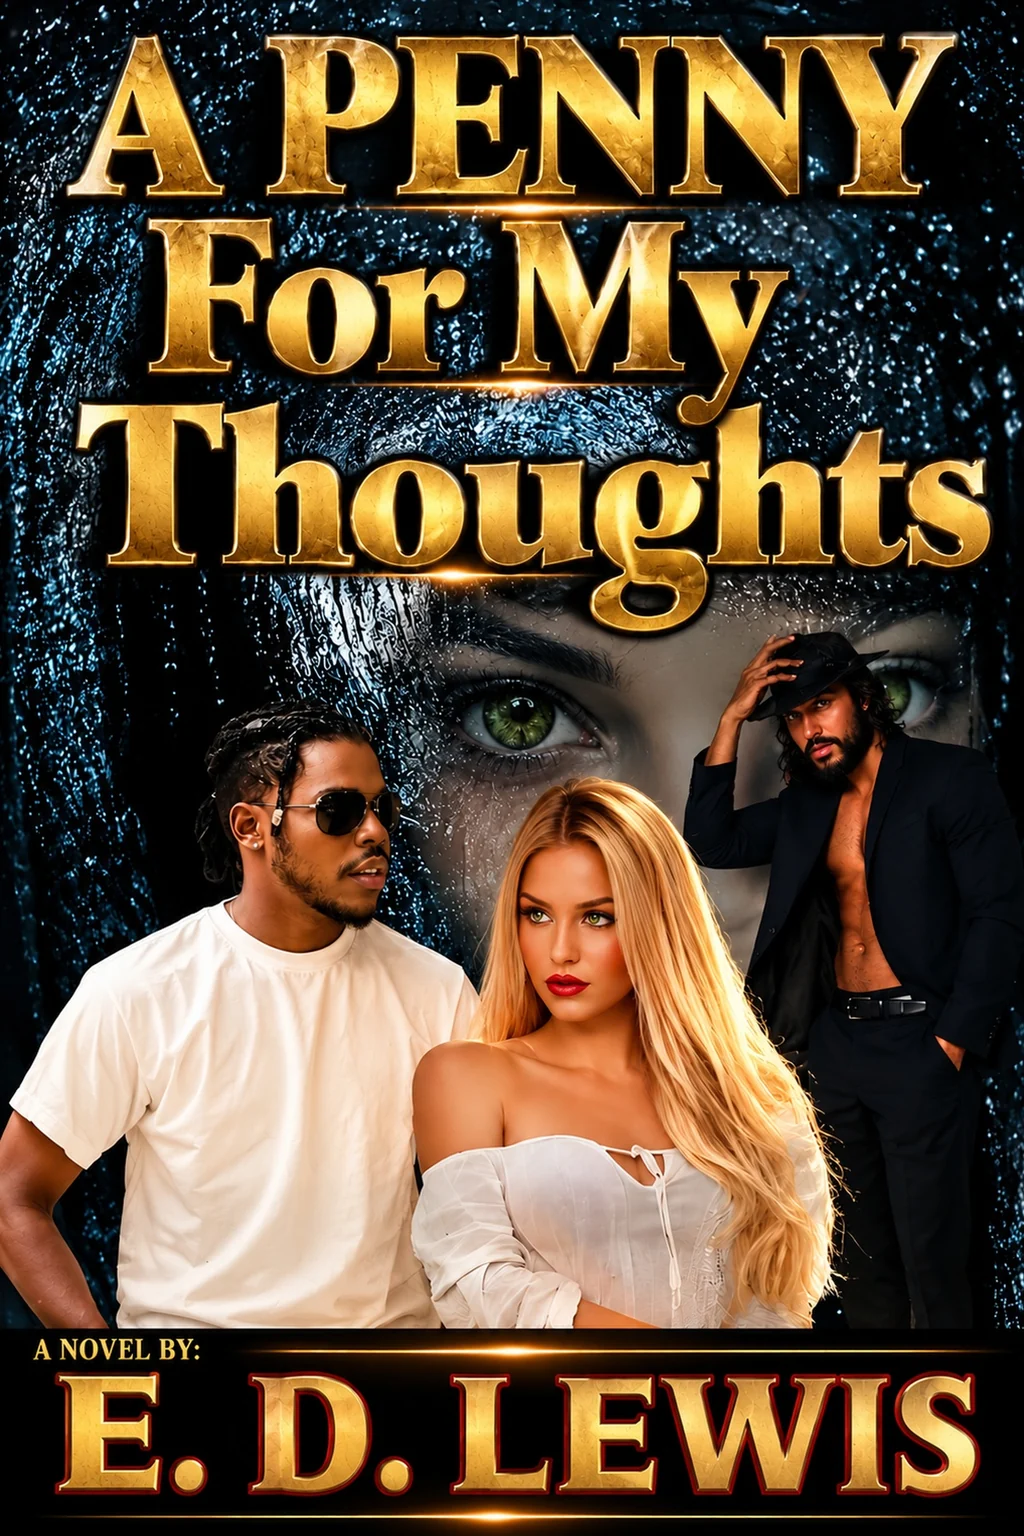
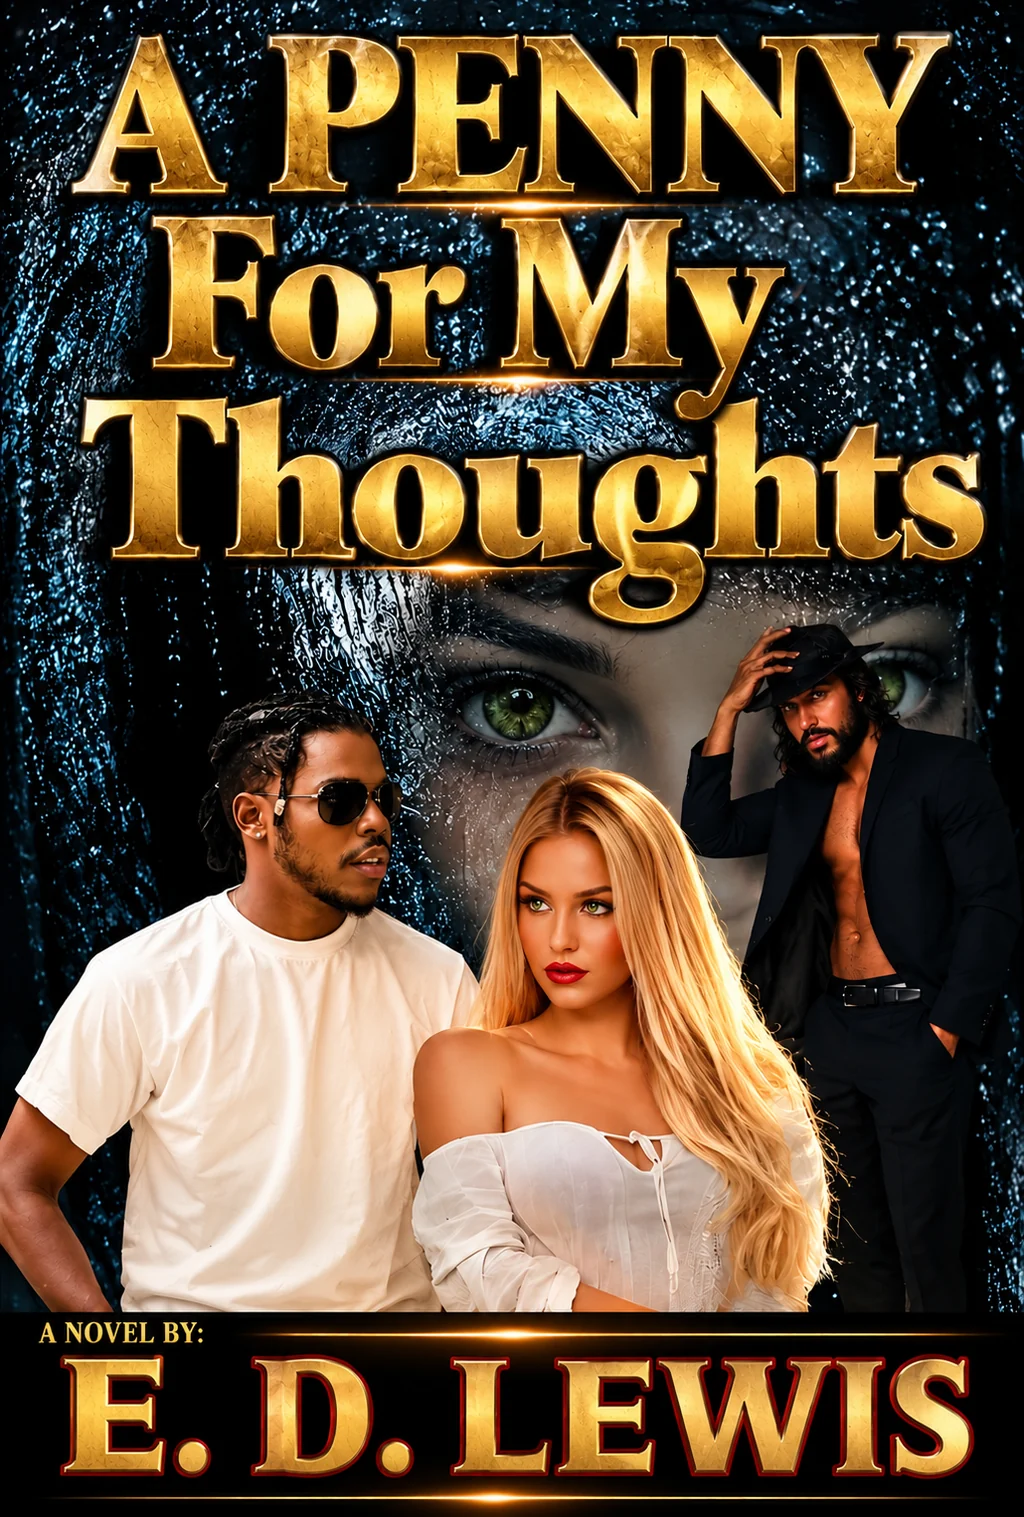
APFMT original: use true 1030x1526 tall_source (preserve aspect)

diff --git a/audiobooks.html b/audiobooks.html
@@ -411,7 +411,7 @@
         </article>
         <article id="ab1" class="card product ab-available">
           <div class="product-cover">
-            <img alt="A PENNY FOR MY THOUGHTS cover" src="images/covers-tall/a-penny-for-my-thoughts-tall-20261024.webp" width="1024" height="1536"/>
+            <img alt="A PENNY FOR MY THOUGHTS cover" src="images/covers-tall/a-penny-for-my-thoughts-tall-20261024.webp" width="1024" height="1517"/>
           </div>
           <div class="product-body">
             <div class="card-title-row">
